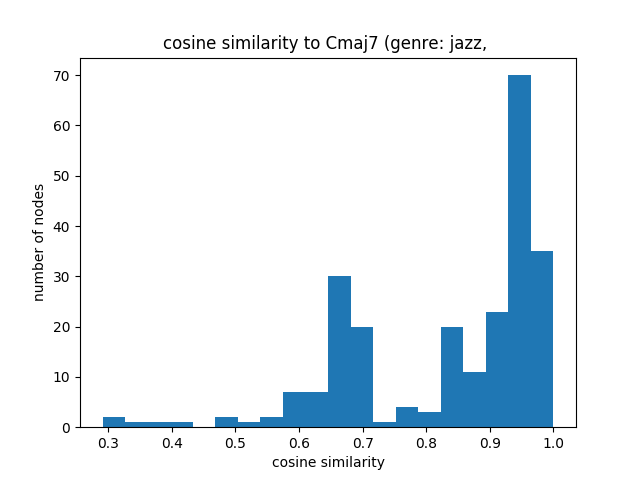
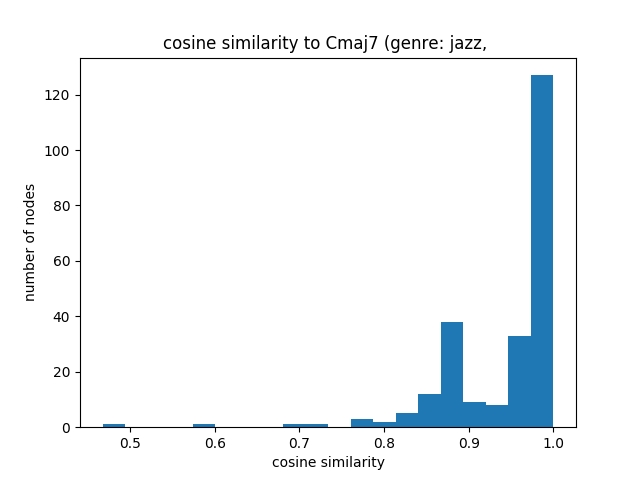
in/out/both directionality for role detection

diff --git a/src/roles.py b/src/roles.py
@@ -7,7 +7,9 @@ import matplotlib.pyplot as plt
 from load_song_graphs import load_song_graphs
 from load_genre_graphs import load_genre_graphs
 
-def do_similarity_stuff(genre, comparison_chord, in_nodes, multi):
+# direction is 'in', 'out', or 'both'
+def do_similarity_stuff(genre, comparison_chord, direction, multi):
+
     G_Multi, G_Directed, G_Undirected, id_to_chord = load_genre_graphs(genre)
 
     chord_to_id = {}
@@ -19,13 +21,15 @@ def do_similarity_stuff(genre, comparison_chord, in_nodes, multi):
     features = np.zeros((G.GetNodes(), 3))
 
     for NI in G.Nodes():
+        deg_fns = {'in': NI.GetInDeg, 'out': NI.GetOutDeg, 'both': NI.GetDeg}
+        neighbor_fns = {'in': NI.GetInNId, 'out': NI.GetOutNId, 'both': NI.GetNbrNId}
         node_vec = []
         node_id = NI.GetId()
-        features[node_id, 0] = NI.GetInDeg() if in_nodes else NI.GetOutDeg()
+        features[node_id, 0] = deg_fns[direction]() #NI.GetDeg() #if in_nodes else NI.GetOutDeg()
         node_vec.append(node_id)
-        deg = NI.GetInDeg() if in_nodes else NI.GetOutDeg()
+        deg = deg_fns[direction]() #NI.GetDeg() #NI.GetInDeg() if in_nodes else NI.GetOutDeg()
         for i in range(deg):
-            neighbor_id = NI.GetInNId(i) if in_nodes else NI.GetOutNId(i)
+            neighbor_id = neighbor_fns[direction](i) #NI.GetNbrNId(i) #NI.GetInNId(i) if in_nodes else NI.GetOutNId(i)
             if not neighbor_id in node_vec:
                 node_vec.append(neighbor_id)
         NIdV = snap.TIntV()
@@ -52,19 +56,22 @@ def do_similarity_stuff(genre, comparison_chord, in_nodes, multi):
         x = features.shape[1]
         new_features = np.zeros((features.shape[0], x*3))
         for NI in G.Nodes():
+            deg_fns = {'in': NI.GetInDeg, 'out': NI.GetOutDeg, 'both': NI.GetDeg}
+            neighbor_fns = {'in': NI.GetInNId, 'out': NI.GetOutNId, 'both': NI.GetNbrNId}
+
             node_id = NI.GetId()
 
             new_features[node_id,:x] = features[node_id]
 
             neighbor_sum = np.zeros_like(features[node_id])
 
-            deg = NI.GetInDeg() if in_nodes else NI.GetOutDeg()
+            deg = deg_fns[direction]() #NI.GetDeg() #NI.GetInDeg() if in_nodes else NI.GetOutDeg()
 
             if deg == 0:
                 continue
 
             for neighbor_i in range(deg):
-                neighbor_id = NI.GetInNId(neighbor_i) if in_nodes else NI.GetOutNId(neighbor_i)
+                neighbor_id = neighbor_fns[direction](neighbor_i) #NI.GetNbrNId(neighbor_i) #NI.GetInNId(neighbor_i) if in_nodes else NI.GetOutNId(neighbor_i)
 
                 neighbor_sum += features[neighbor_id]
             
@@ -107,9 +114,9 @@ def do_similarity_stuff(genre, comparison_chord, in_nodes, multi):
     plt.savefig(genre+'-sim-to-'+comparison_chord)
     plt.close()
 
-do_similarity_stuff('rock', 'C', in_nodes=True, multi=True)
+do_similarity_stuff('rock', 'Am', direction='both', multi=True)
 
-do_similarity_stuff('jazz', 'Cmaj7', in_nodes=True, multi=True)
+do_similarity_stuff('jazz', 'Am7', direction='both', multi=True)
 
 
 
